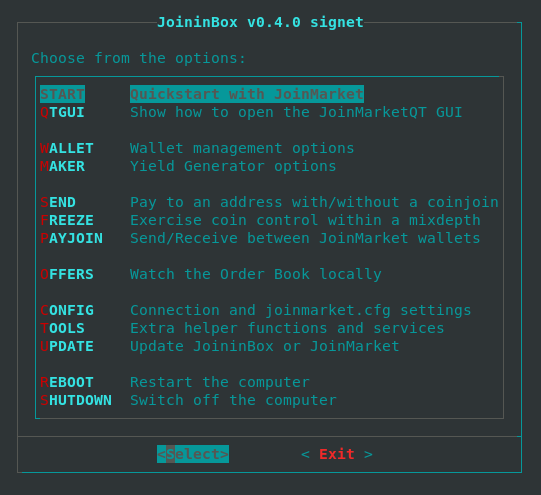
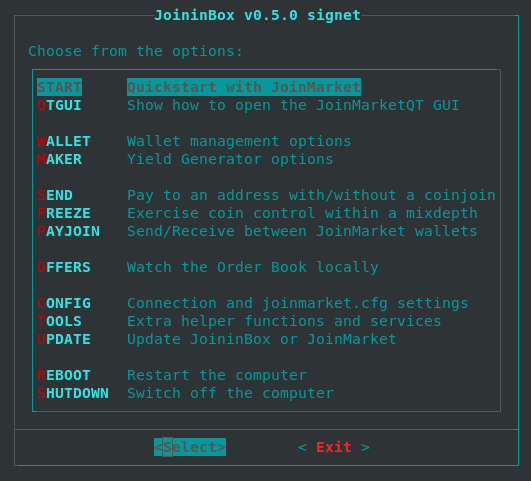
readme: update links and screenshots for v0.5.0

diff --git a/README.md b/README.md
@@ -19,7 +19,6 @@ A minimalistic, security focused linux environment for JoinMarket with a termina
 
 
 - [Features](#features)
-- [Connect to a Bitcoin Core node](#connect-to-a-bitcoin-core-node)
 - [Required Hardware](#required-hardware)
 - [Set up with an SDcard image](#set-up-with-an-sdcard-image)
 - [Set up JoininBox on Linux](#set-up-joininbox-on-linux)
@@ -36,18 +35,14 @@ A minimalistic, security focused linux environment for JoinMarket with a termina
 * Run the Yield Generator as a service and earn fees for providing liquidity
 * Use the JoinMarket-QT GUI remotely over SSH
 * Signet support to test for free
-
-## Connect to a Bitcoin Core node
-
-* Try signet locally
-* Connect remotely to a
+* Connect remotely to a Bitcoin Core node
   * RaspiBlitz over [LAN or Tor](prepare_remote_node.md#raspiblitz)
   * RoninDojo over [LAN or Tor](prepare_remote_node.md#ronindojo)
-* Run locally as part of the RaspiBlitz SERVICES
 * Start a pruned node from https://prunednode.today/
-  
+* JoininBox is part the RaspiBlitz SERVICES
+
 **The addresses, transactions and balances of JoinMarket can be seen in the watch-only wallet of the connected node.**
-  * use your own or trusted node
+  * use your own or a trusted node
   * to protect privacy in case of physical access use disk encryption
 
 ## Required Hardware
@@ -61,8 +56,11 @@ A minimalistic, security focused linux environment for JoinMarket with a termina
 **JoininBox operates on the minimum viable hardware under the assumption that the seed (and passphrase) of the wallets used is safely backed up and can be used to recover the funds!**
 
 ## Set up with an SDcard image
-* Find the links to the prebuilt image in the [releases](https://github.com/openoms/joininbox/releases)
-* [Verify the downloaded image](FAQ.md#verify-the-downloaded-the-image)
+* Download and verify the latest prebuilt image for the Raspberry Pi 4:
+  * Download link: <https://mega.nz/folder/BkFlgShZ#lVEGJmrM8cEdJINQaHEUrg>
+  * Alternative: <https://keybase.pub/oms/joininbox-v0.5.0-2021-06-21/>
+  * [How to verify the downloaded image](FAQ.md#verify-the-downloaded-the-image)
+  
 * Write to the SDcard with [Balena Etcher](https://www.balena.io/etcher/)
 * Assemble the RaspberryPi and connect with a LAN cable to the internet
 * Make sure that your laptop and the RPi are on the same local network
@@ -79,11 +77,13 @@ A minimalistic, security focused linux environment for JoinMarket with a termina
   ![password change](/images/password.change.png)
 
 * next will be presented with the CONFIG menu to
-  * Edit the joinmarket.cfg manually
-  * Connect to  a remote bitcoin node on mainnet
+  * Connect to a remote bitcoin node on mainnet
   * Try JoinMarket on signet
+  * Start a pruned node from [prunednode.today](https://prunednode.today)
+  * Edit the joinmarket.cfg manually
+  * Update JoininBox or JoinMarket
   
-  ![config menu](/images/menu.config.png)
+  ![config menu](/images/menu.startup.png)
 
 * Continuing with one of the options or exiting will get you to the main JoininBox menu where you can start using JoinMarket
    
